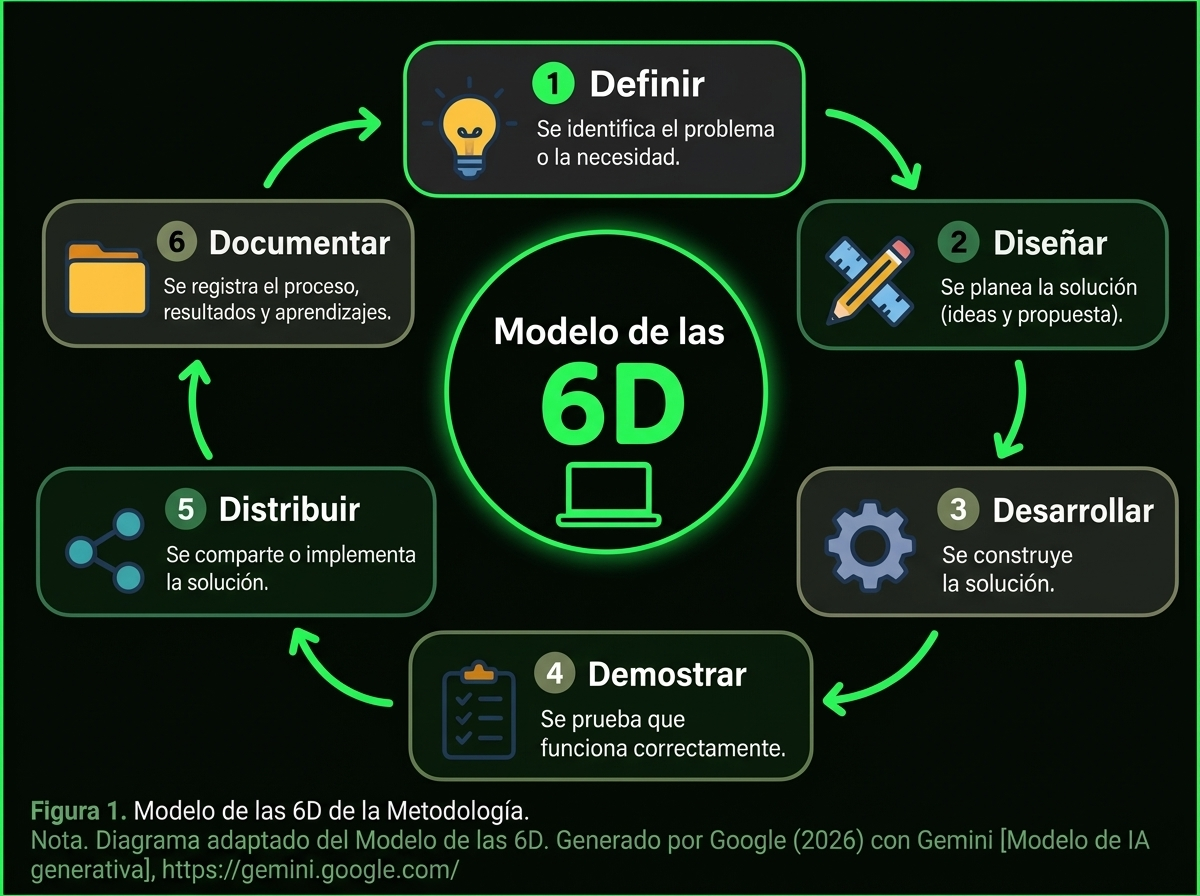
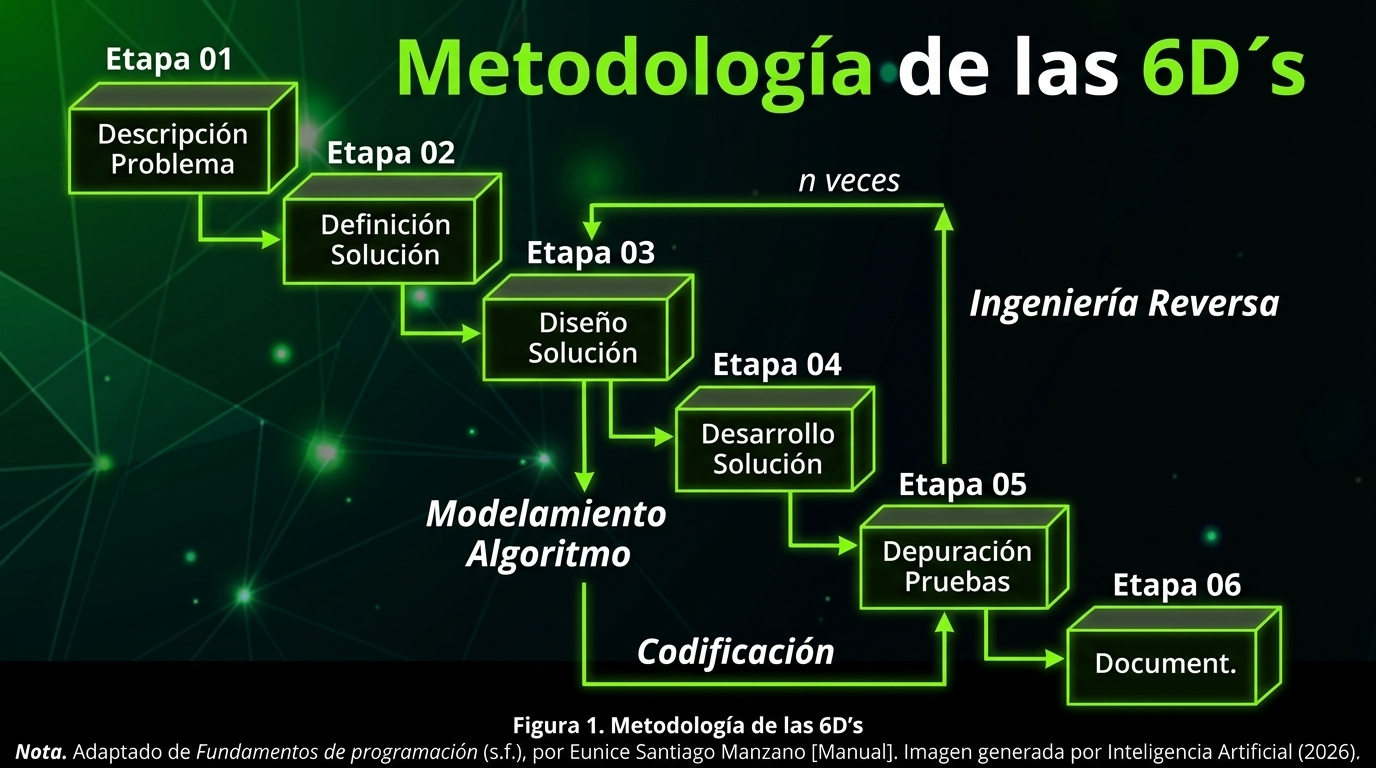
Se actualizaron las instrucciones de cada problema en los README.md y se cambió la imagen del diagrama de las 6D´s

diff --git a/problemas/problema2/README.md b/problemas/problema2/README.md
@@ -55,14 +55,14 @@ DIAGRAMA DE FLUJO:
 Imágen de autoría propia
 
 ### INSTRUCCIONES DESCARGAR PROGRAMA:
-1. Asegúrate de tener instalado Java en tu PC. Usa: java --version. Además el IDE NetBeans en la versión JDK 27.
+1. Asegúrate de tener instalado Java en tu ordenador. Usa: java --version en la terminal (version 11 en adelante).
 2. Clonar el repositorio de github con el código del programa a tu computadora local (Link a github: https://github.com/Muunsitaw/proyecto-1a).
-3. Entrar al IDE NetBeans, buscar el archivo mediante "Open File" en la ruta donde se guardó, navegar hasta la carpeta ~/src/Impuestos, y abrir.
-4. Ejecutar mediante RUN el programa.
+3. Navegar en la terminal hasta llegar a la carpeta "Impuestos". (Ruta: ~/proyecto-1a-revision-final/problemas/problema2/Impuestos)
+4. Ejecutar el programa mediante el comando "./run.sh".
 
-NOTA: El programa solo es ejecutable en el entorno del IDE NetBeans.
+NOTA: Si tu sistema operativo muestra un error como el siguiente: "Permission denied" deberás ejecutar "chmod +x build.sh run.sh" para cambiar los permisos de los archivos en tu ordenador. Para más información: https://www.geeksforgeeks.org/linux-unix/what-does-chmod-x-do-and-how-to-use-it/ 
 
-### INSTRUCCIONES PROGRAMA:
+### INSTRUCCIONES USO PROGRAMA:
 1. Seleccionar el "Módulo de impuestos" desde el menú principal del programa.
 2. Una vez dentro de la interfaz, ingresar los siguientes campos: precio del producto, si el comprador es un estudiante acreditado (Sí o No) y si el producto está dentro del catálogo educativo (Sí o No). El programa en automático valida los datos de entrada: el campo de precio solo permite números y un punto decimal, no puede iniciar con 0 o con punto y admite máximo dos decimales. Si falta información o el precio está fuera del rango permitido, se mostrará una ventana emergente de error y se solicitará el reingreso. Si se desea reiniciar los datos de entrada y los resultados, se debe presionar el botón "Limpiar".
 3. Presionar el botón "Calcular" para realizar el cálculo correspondiente y mostrar los resultados.

diff --git a/problemas/problema1/README.md b/problemas/problema1/README.md
@@ -48,14 +48,14 @@ DIAGRAMA DE FLUJO:
 Imágen de autoría propia
 
 ### INSTRUCCIONES DESCARGAR PROGRAMA:
-1. Asegúrate de tener instalado Java en tu PC. Usa: java --version. Además el IDE NetBeans en la versión JDK 27.
+1. Asegúrate de tener instalado Java en tu ordenador. Usa: java --version en la terminal (version 11 en adelante).
 2. Clonar el repositorio de github con el código del programa a tu computadora local (Link a github: https://github.com/Muunsitaw/proyecto-1a).
-3. Entrar al IDE NetBeans, buscar el archivo mediante "Open File" en la ruta donde se gaurdó, navegar hasta la carpeta ~/scr/distancias, y abrir.
-4. Ejecutar mediante RUN el programa.
+3. Navegar en la terminal hasta llegar a la carpeta "Distancias". (Ruta: ~/proyecto-1a-revision-final/problemas/problema1/Distancias)
+4. Ejecutar el programa mediante el comando "./run.sh".
 
-NOTA: El programa solo es ejecutable en el entorno del IDE NetBeans.
+NOTA: Si tu sistema operativo muestra un error como el siguiente: "Permission denied" deberás ejecutar "chmod +x build.sh run.sh" para cambiar los permisos de los archivos en tu ordenador. Para más información: https://www.geeksforgeeks.org/linux-unix/what-does-chmod-x-do-and-how-to-use-it/ 
 
-### INSTRUCCIONES PROGRAMA:
+### INSTRUCCIONES USO PROGRAMA:
 1. Seleccionar el "Módulo geométrico vectorial" desde el menú principal del programa.
 2. Una vez dentro de la interfaz, ingresar los siguientes campos: x1 (coordenada X en el punto 1), y1 (coordenada Y en el punto 1), x2 (coordenada X en el punto 2), y2 (coordenada Y en el punto 2). El programa en automático valida los datos de entrada, en caso de no ser los adecuados no permite su ingreso, además, si la coordenada el dato ingresado excede el rango permitido, se solicitará el reingreso por medio de una ventana emergente. Si se desea reiniciar los resultados y datos de entarda, se debe presionar el botón "Limpiar".
 3. Presionar el botón "Calcular" para realizar el cálculo correspondiente y mostrar los resultados. 
